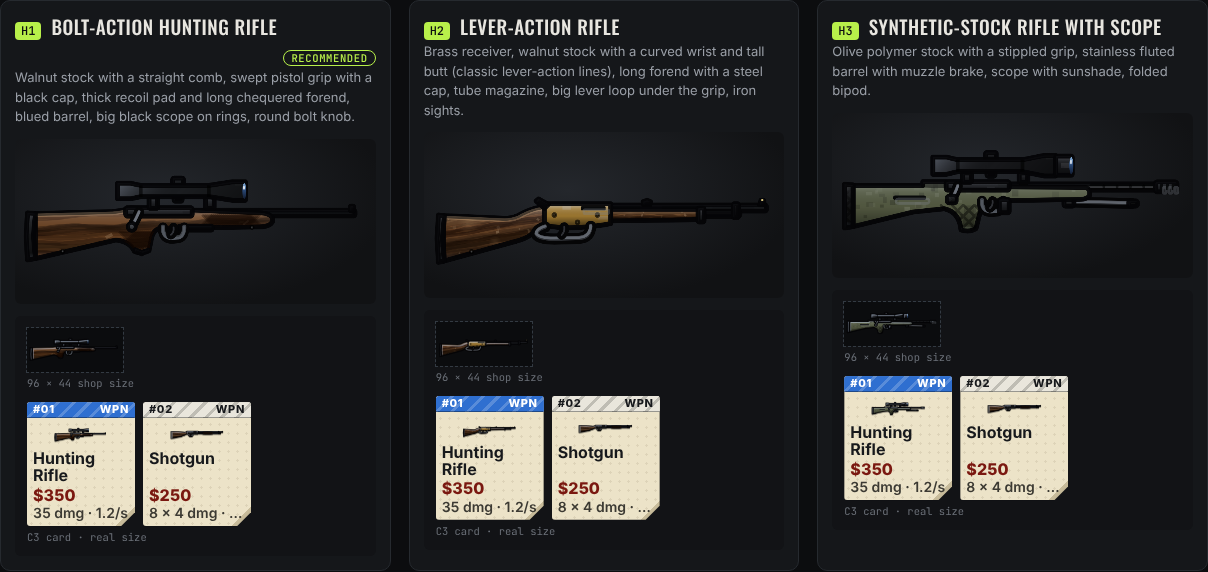
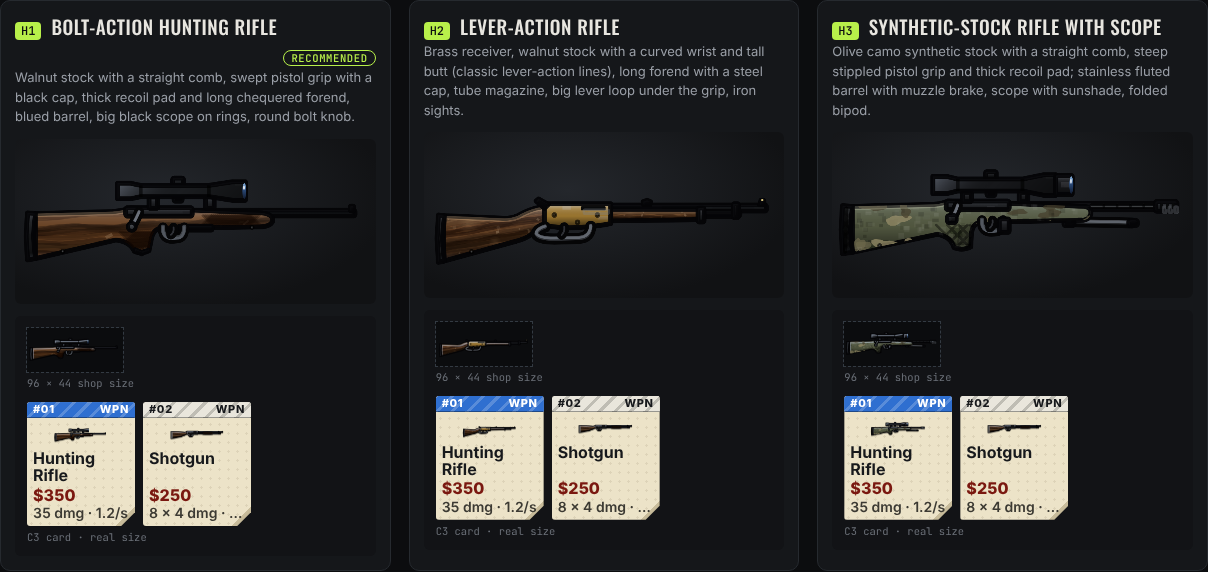
Art: H3 synthetic stock redrawn (straight comb, steep grip, recoil pad, camo)
Claude-Session: https://claude.ai/code/session_01CgLgPWSbo425jiZFuU2Sp9

Changed region(s): [[0.6738, 0.535, 0.8882, 0.951], [0.7045, 0.2675, 0.9801, 0.4458], [0.6738, 0.0594, 0.9801, 0.208]]

diff --git a/docs/art/5-13/early-weapons.html b/docs/art/5-13/early-weapons.html
@@ -3833,20 +3833,30 @@ function rifleH3(c, size) {
   rod(c, (q) => { q.moveTo(0.17, 0.02); q.lineTo(0.36, 0.024); }, 0.01, "#26282b");
   part(c, (q) => R(q, 0.155, 0.006, 0.03, 0.026, 0.005), { base: "#26282b", box: [0.155, 0.006, 0.185, 0.032], hi: 0.4 });
   part(c, (q) => R(q, 0.35, 0.016, 0.026, 0.016, 0.006), { base: "#141516", box: [0.35, 0.016, 0.376, 0.032], hi: 0.3 });
+  // stock (designer reference: modern synthetic hunting stocks): straight comb, a steep pistol grip
+  // with a palm swell, straight belly to a tall butt, thick black recoil pad, long flat-bottomed
+  // forend; olive with a camo pattern and a stippled grip panel
   const st = (q) => {
-    q.moveTo(-0.48, -0.03); q.lineTo(-0.27, -0.03); q.lineTo(-0.27, -0.042); q.lineTo(-0.2, -0.042); q.lineTo(-0.2, -0.028); q.lineTo(0.22, -0.024);
-    q.quadraticCurveTo(0.236, -0.02, 0.232, 0.0); q.quadraticCurveTo(0.224, 0.012, 0.2, 0.012); q.lineTo(-0.06, 0.016);
-    q.quadraticCurveTo(-0.09, 0.02, -0.1, 0.06); q.lineTo(-0.11, 0.1); q.quadraticCurveTo(-0.13, 0.112, -0.155, 0.104);
-    q.quadraticCurveTo(-0.16, 0.05, -0.205, 0.04); q.lineTo(-0.3, 0.05); q.lineTo(-0.48, 0.094); q.closePath();
+    q.moveTo(-0.482, -0.026); q.lineTo(-0.24, -0.032); q.quadraticCurveTo(-0.21, -0.034, -0.195, -0.042); q.lineTo(0.215, -0.026);
+    q.quadraticCurveTo(0.236, -0.024, 0.236, -0.006); q.quadraticCurveTo(0.234, 0.016, 0.205, 0.016); q.lineTo(-0.03, 0.02);
+    q.lineTo(-0.1, 0.022); q.quadraticCurveTo(-0.122, 0.028, -0.124, 0.06); q.lineTo(-0.126, 0.096);
+    q.quadraticCurveTo(-0.15, 0.108, -0.176, 0.098); q.quadraticCurveTo(-0.186, 0.064, -0.226, 0.058); q.lineTo(-0.482, 0.112); q.closePath();
   };
-  part(c, st, { base: OD, box: [-0.48, -0.042, 0.236, 0.112], tex: polyTex(363), hi: 0.32 });
+  part(c, st, { base: OD, box: [-0.482, -0.042, 0.236, 0.112], tex: polyTex(363), hi: 0.32 });
   c.save(); c.beginPath(); st(c); c.clip();
-  fillP(c, (q) => Pg(q, [-0.145, 0.03, -0.108, 0.03, -0.118, 0.095, -0.15, 0.095]), "rgba(0,0,0,0.18)");
-  polyTex(364, true)(c, -0.15, 0.03, -0.105, 0.095);
-  strokeP(c, (q) => { q.moveTo(-0.27, -0.03); q.lineTo(-0.2, -0.028); }, "rgba(0,0,0,0.5)", 1 * P);
+  const cr = mulberry(368);
+  for (let i = 0; i < 26; i++) {
+    const col = ["rgba(150,140,104,0.75)", "rgba(46,52,34,0.8)", "rgba(110,104,76,0.7)", "rgba(70,62,44,0.7)"][i % 4];
+    fillP(c, (q) => blobPath(q, -0.48 + cr() * 0.72, -0.04 + cr() * 0.15, 0.014 + cr() * 0.026, 0.008 + cr() * 0.014, 369 + i, 0.5, 22), col);
+  }
+  polyTex(370)(c, -0.48, -0.04, 0.24, 0.11);
+  fillP(c, (q) => Pg(q, [-0.16, 0.03, -0.116, 0.03, -0.12, 0.09, -0.168, 0.09]), "rgba(0,0,0,0.25)");
+  polyTex(364, true)(c, -0.17, 0.03, -0.114, 0.09);
+  strokeP(c, (q) => { q.moveTo(-0.48, -0.022); q.lineTo(-0.24, -0.028); q.quadraticCurveTo(-0.21, -0.03, -0.195, -0.038); }, "rgba(230,230,200,0.22)", 1.3 * P);
   c.restore();
-  hole(c, (q) => R(q, -0.36, 0.0, 0.1, 0.014, 0.007)); // sling slot
-  part(c, (q) => Pg(q, [-0.48, -0.032, -0.506, -0.034, -0.506, 0.098, -0.48, 0.094]), { base: "#141516", box: [-0.506, -0.034, -0.48, 0.098], tex: polyTex(365, true), hi: 0.2 });
+  part(c, (q) => Pg(q, [-0.482, -0.026, -0.512, -0.028, -0.516, 0.044, -0.512, 0.116, -0.482, 0.112, -0.488, 0.044]), { base: "#141516", box: [-0.516, -0.028, -0.482, 0.116], tex: polyTex(365, true), hi: 0.2 }); // recoil pad
+  strokeP(c, (q) => { q.moveTo(-0.5, -0.02); q.lineTo(-0.504, 0.11); }, "rgba(0,0,0,0.6)", 1 * P);
+  rivet(c, -0.4, 0.092, 0.0035, "#77797c"); // sling stud
   part(c, (q) => R(q, -0.2, -0.042, 0.19, 0.026, 0.006), { base: "#26282c", box: [-0.2, -0.042, -0.01, -0.016], tex: steelTex(366, 0.6), hi: 0.5 });
   rod(c, (q) => { q.moveTo(-0.165, -0.028); q.quadraticCurveTo(-0.172, -0.006, -0.182, 0.008); }, 0.008, "#3a3d42");
   part(c, (q) => R(q, -0.198, 0.0, 0.03, 0.024, 0.008), { base: "#1d1e21", box: [-0.198, 0, -0.168, 0.024], tex: polyTex(367, true), hi: 0.45, line: 1 });
@@ -3928,7 +3938,7 @@ const EARLY = {
   hunting_rifle: [
     { id: "H1", name: "Bolt-action hunting rifle", desc: "Walnut stock with a straight comb, swept pistol grip with a black cap, thick recoil pad and long chequered forend, blued barrel, big black scope on rings, round bolt knob.", draw: rifleH1, y: 0.5 },
     { id: "H2", name: "Lever-action rifle", desc: "Brass receiver, walnut stock with a curved wrist and tall butt (classic lever-action lines), long forend with a steel cap, tube magazine, big lever loop under the grip, iron sights.", draw: rifleH2, y: 0.52 },
-    { id: "H3", name: "Synthetic-stock rifle with scope", desc: "Olive polymer stock with a stippled grip, stainless fluted barrel with muzzle brake, scope with sunshade, folded bipod.", draw: rifleH3, y: 0.5 },
+    { id: "H3", name: "Synthetic-stock rifle with scope", desc: "Olive camo synthetic stock with a straight comb, steep stippled pistol grip and thick recoil pad; stainless fluted barrel with muzzle brake, scope with sunshade, folded bipod.", draw: rifleH3, y: 0.5 },
   ],
   machete: [
     { id: "M1", name: "Classic black-handle machete", desc: "Long black-coated blade with a clipped tip and a bright ground edge, black grip with finger swells, three rivets, lanyard hole.", draw: macheteM1, y: 0.5 },
